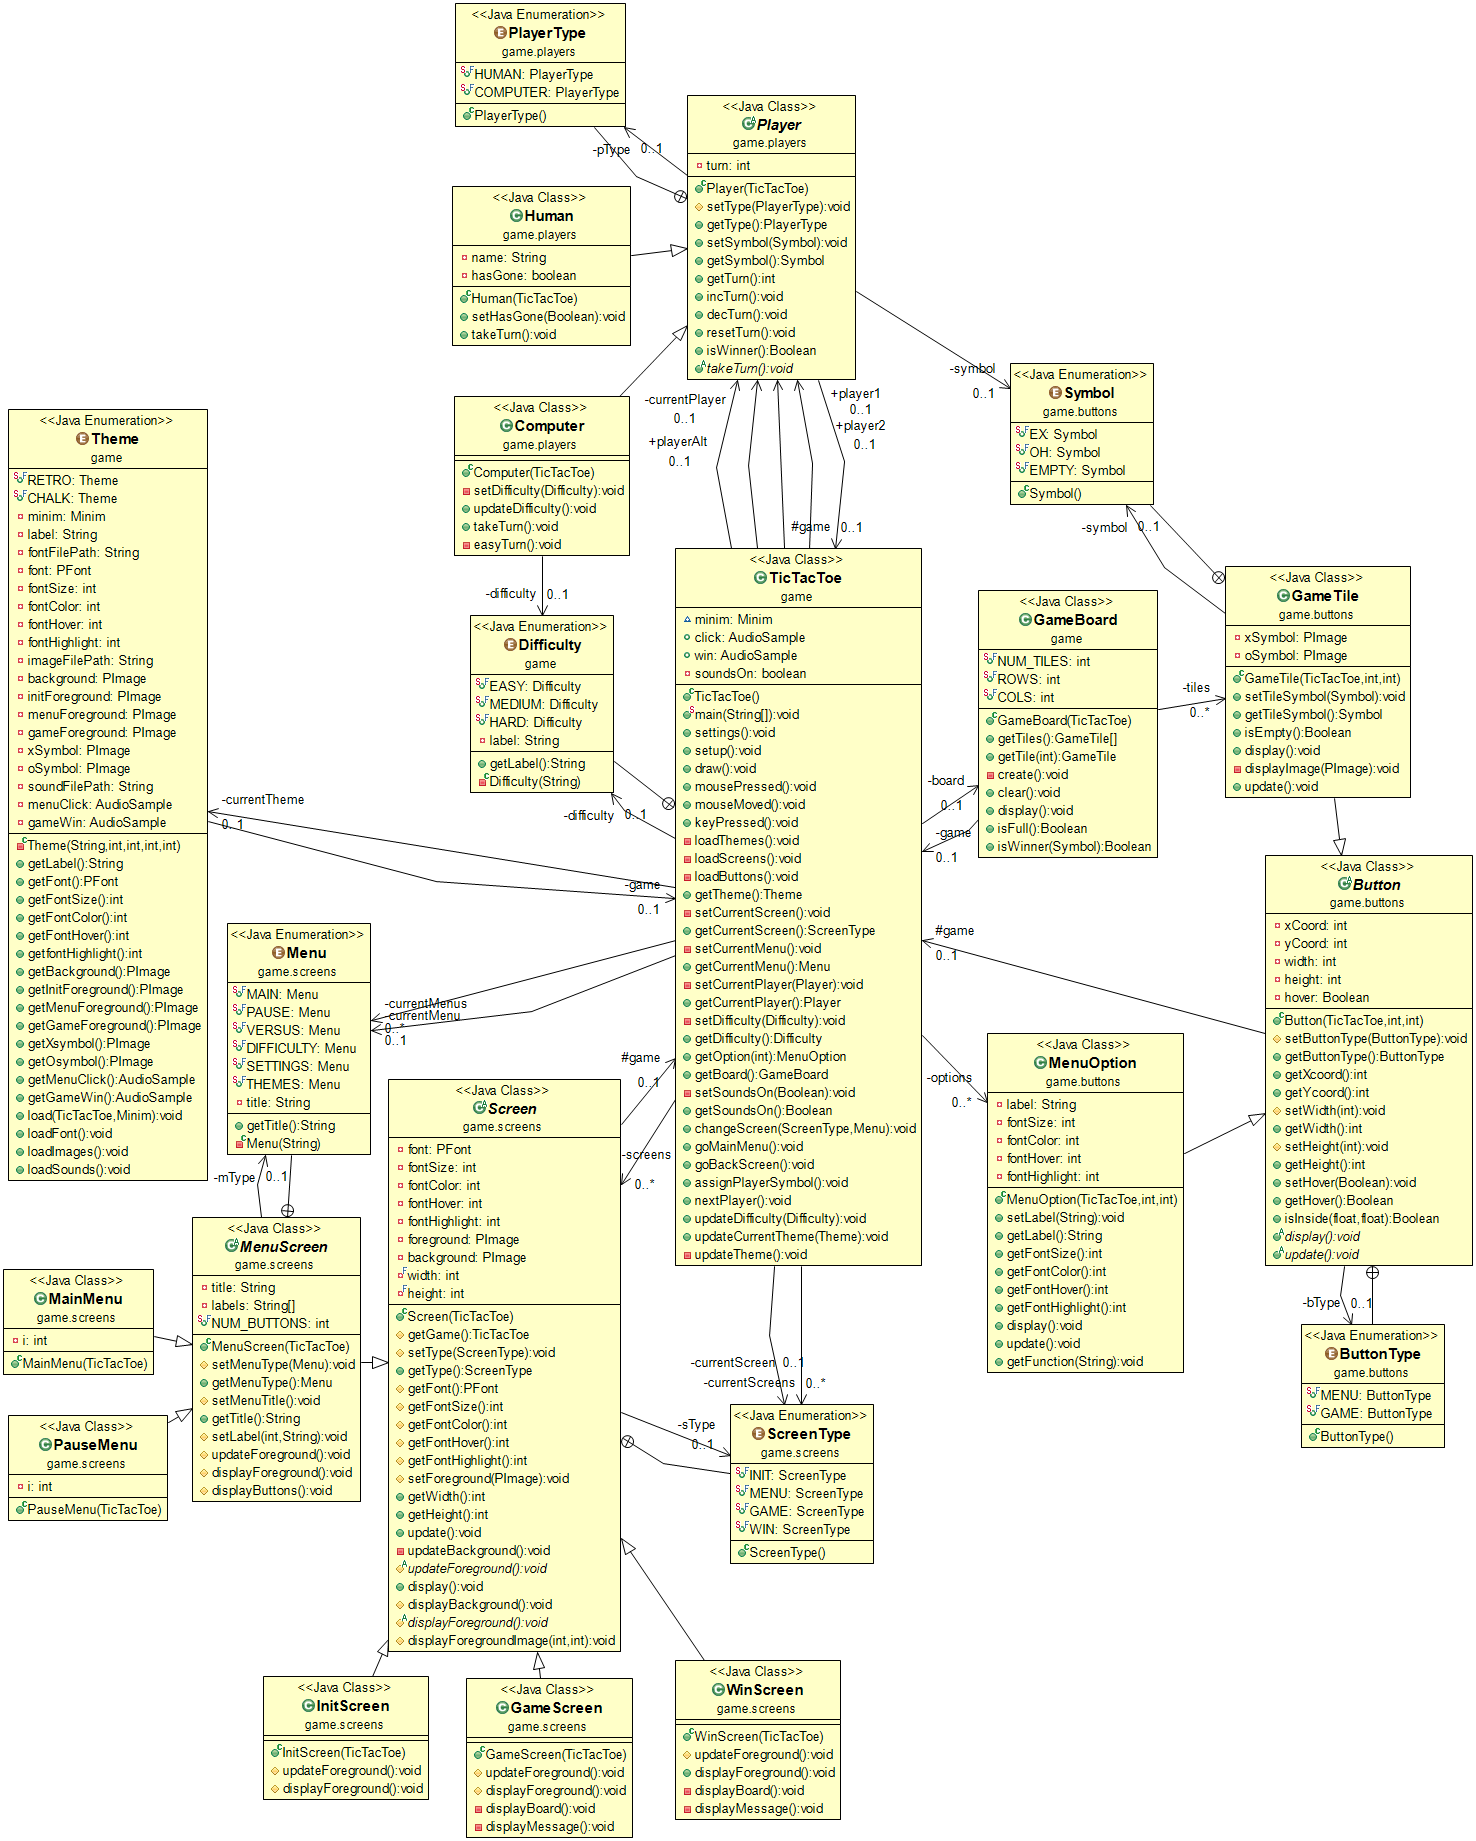
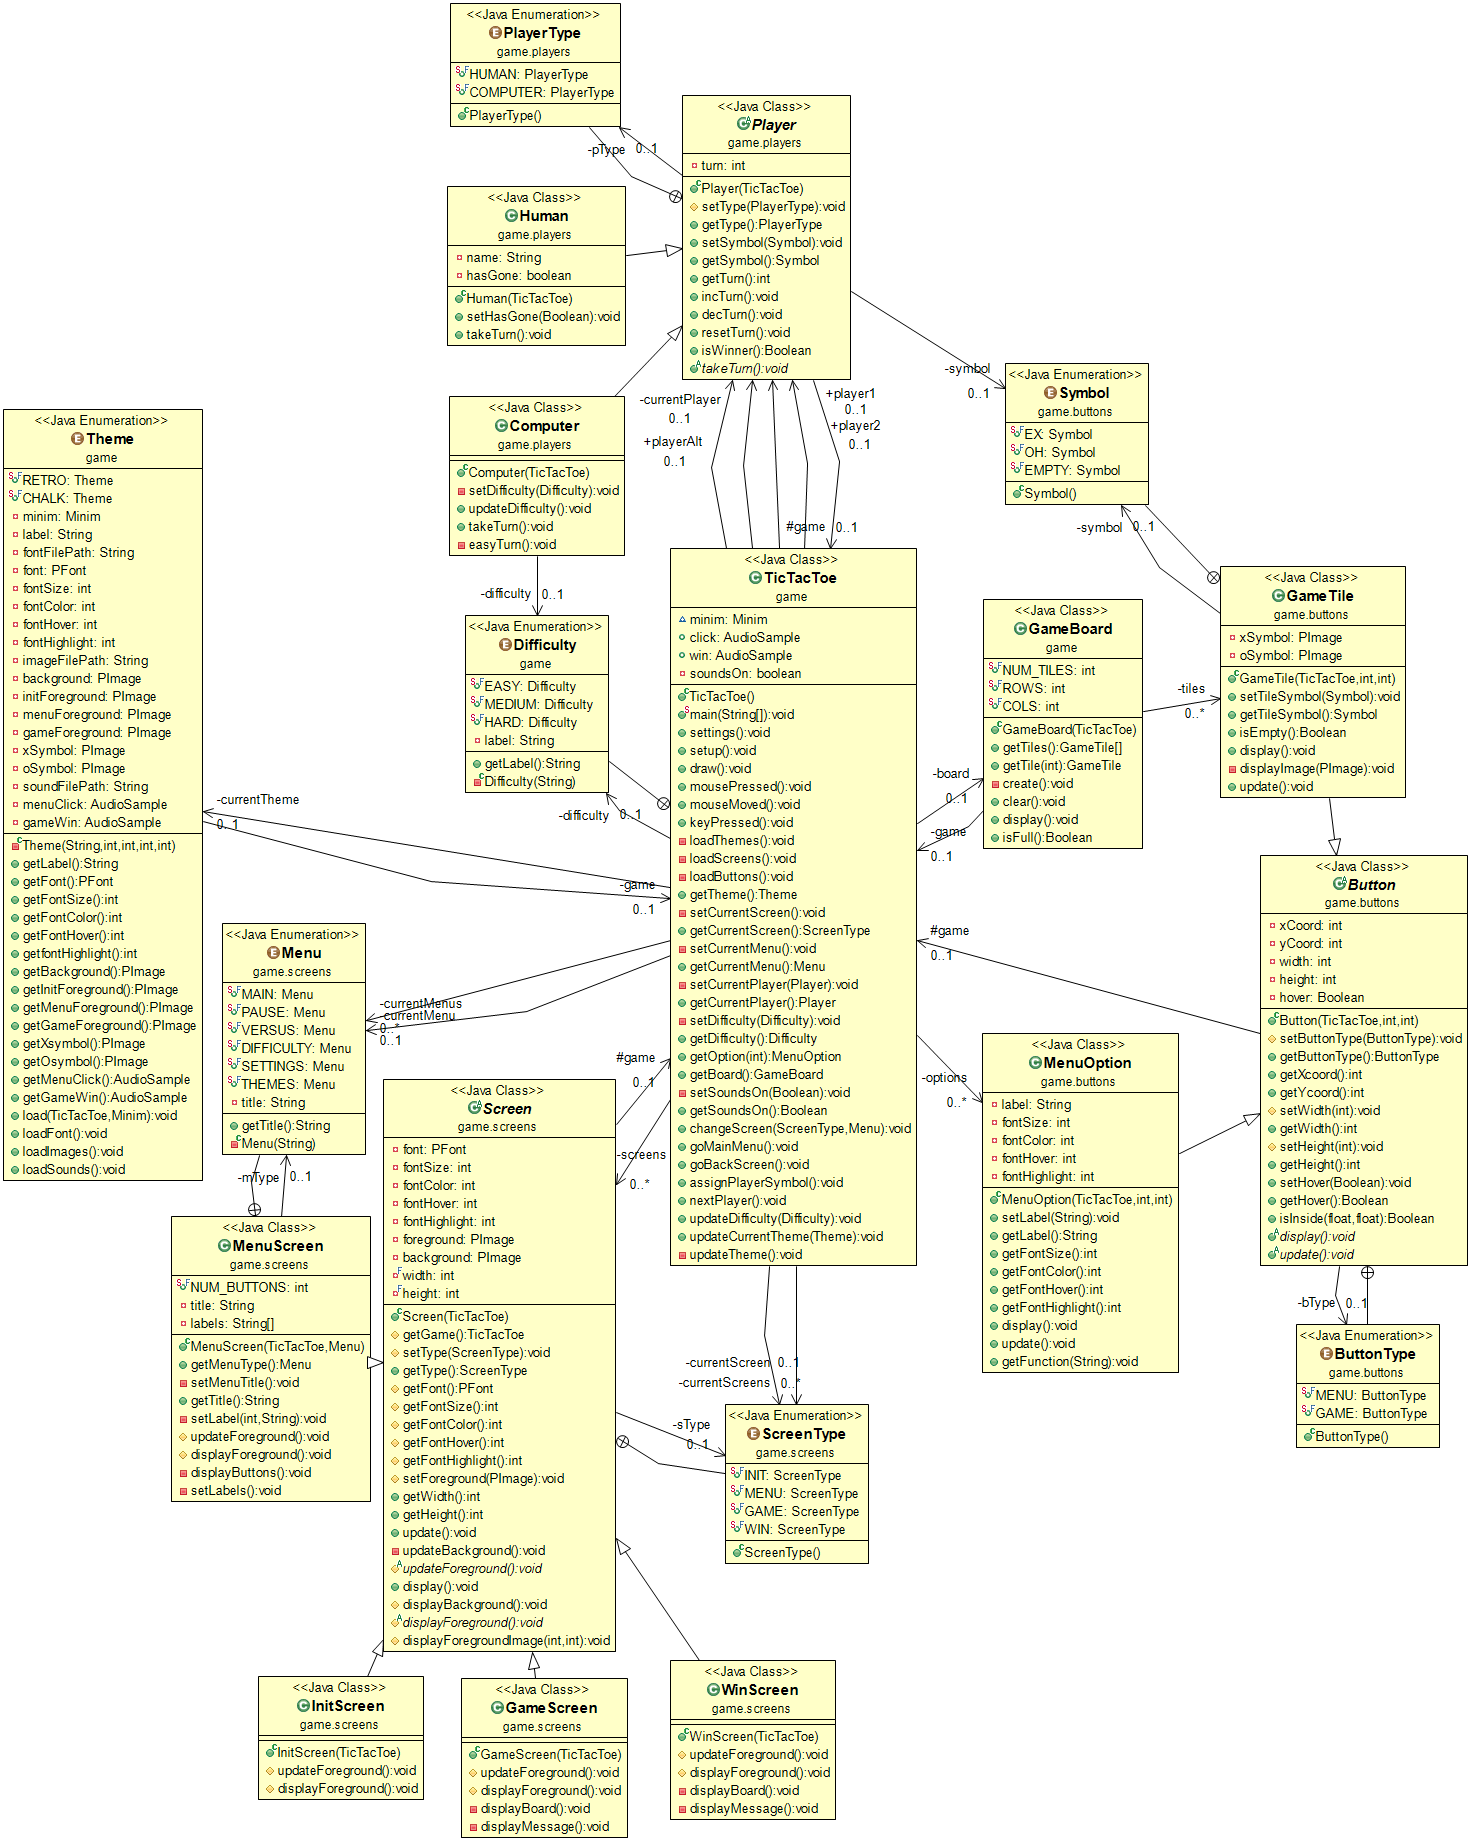
0.9.5_menus
-consolidated menu screens into single class
-removed separate menu classes

menu options are still created with the game and change display based on
current menu screen, as opposed to being created with the screen

diff --git a/TicTacToe/src/game/screens/MenuScreen.java b/TicTacToe/src/game/screens/MenuScreen.java
@@ -11,44 +11,48 @@
  ******************************************************************************/
 package game.screens;
 
+import game.Theme;
 import game.TicTacToe;
+import game.buttons.MenuOption;
 
-public abstract class MenuScreen extends Screen
+public class MenuScreen extends Screen
 {
     /***************************************************************************
      *      VARIABLES
      **************************************************************************/
     
+    public static final int NUM_BUTTONS = 6;
+
     private Menu mType;
     private String title;
     private String[] labels = {"","","","","",""};
-    public static final int NUM_BUTTONS = 6;
 
     /***************************************************************************
      *      CONSTRUCTOR
      **************************************************************************/
     
-    public MenuScreen(TicTacToe game)
+    public MenuScreen(TicTacToe game, Menu mType)
     {
         super(game);
+        this.mType = mType;
+
         setType(ScreenType.MENU);
         setForeground(game.getTheme().getMenuForeground());
+
+        setMenuTitle();
+        setLabels();
     }
     
     /***************************************************************************
      *      SETTERS/GETTERS
      **************************************************************************/
     
-    protected void setMenuType(Menu mType) {
-        this.mType = mType;
-    }
-    
     public Menu getMenuType()
     {
         return this.mType;
     }
     
-    protected void setMenuTitle()
+    private void setMenuTitle()
     {
         this.title = getMenuType().getTitle();
     }
@@ -58,7 +62,7 @@ public abstract class MenuScreen extends Screen
         return this.title;
     }
     
-    protected void setLabel(int i, String label)
+    private void setLabel(int i, String label)
     {
         this.labels[i] = label;
     }
@@ -82,13 +86,67 @@ public abstract class MenuScreen extends Screen
         
         displayButtons();
     }
+    
+    
 
-    protected void displayButtons()
+    private void displayButtons()
     {
         for (int i = 0; i < labels.length; i++)
         {
             game.getOption(i).setLabel(this.labels[i]);
             game.getOption(i).display();
+        }
+    }
+    
+    private void setLabels()
+    {
+        int i = 0;
+        switch (mType)
+        {
+        case MAIN:
+            setLabel(i++, "New Game");
+            setLabel(i++, "Difficulty");
+            //setLabel(i++, "Settings");
+            setLabel(i++, "Quit");            
+            break;
+            
+        case PAUSE:
+            setLabel(i++, "Continue Game");
+            setLabel(i++, "New Game");
+            //setLabel(i++, "Settings");
+            setLabel(i++, "Main Menu");
+            setLabel(i++, "Quit");
+            break;
+            
+        case VERSUS:
+            setLabel(i++, "Computer");
+            setLabel(i++, "Human");
+            setLabel(i++, "Back");
+            break;
+            
+        case DIFFICULTY:
+            setLabel(i++, "Easy");
+            setLabel(i++, "Medium");
+            setLabel(i++, "Hard");
+            setLabel(i++, "Back");
+            break;
+            
+        case SETTINGS:
+            setLabel(i++, "Themes");
+            //setLabel(i++, "Sounds");
+            setLabel(i++, "Back");
+            break;
+            
+        case THEMES:
+            for (Theme theme : Theme.values())
+            {
+                setLabel(i++, theme.getLabel());
+            }
+            setLabel(i++,"Back");
+            break;
+            
+        default:
+            break;
         }
     }
 

diff --git a/TicTacToe/src/game/GameBoard.java b/TicTacToe/src/game/GameBoard.java
@@ -95,47 +95,4 @@ public class GameBoard
         }
         return true;
     }
-  
-    public Boolean isWinner(Symbol s)
-    {
-    	//Boolean Variable
-    	boolean winner = false;
-    	//Check Row Winners
-    	if ((getTile(0).getTileSymbol() == s) && (getTile(1).getTileSymbol() == s) && (getTile(2).getTileSymbol() == s))
-		{
-			winner = true;
-		}
-    	else if ((getTile(3).getTileSymbol() == s) && (getTile(4).getTileSymbol() == s) && (getTile(5).getTileSymbol() == s))
-    	{
-			winner = true;
-    	}
-    	else if ((getTile(6).getTileSymbol() == s) && (getTile(7).getTileSymbol() == s) && (getTile(8).getTileSymbol() == s))
-    	{
-			winner = true;
-    	}
-    	//Check Column Winners
-    	else if ((getTile(0).getTileSymbol() == s) && (getTile(3).getTileSymbol() == s) && (getTile(6).getTileSymbol() == s))
-		{
-			winner = true;
-		}
-    	else if ((getTile(1).getTileSymbol() == s) && (getTile(4).getTileSymbol() == s) && (getTile(7).getTileSymbol() == s))
-    	{
-			winner = true;
-    	}
-    	else if ((getTile(2).getTileSymbol() == s) && (getTile(5).getTileSymbol() == s) && (getTile(8).getTileSymbol() == s))
-    	{
-			winner = true;
-    	}
-    	//Check Diagonal Winners
-    	else if ((getTile(0).getTileSymbol() == s) && (getTile(4).getTileSymbol() == s) && (getTile(8).getTileSymbol() == s))
-		{
-			winner = true;
-		}
-    	else if ((getTile(2).getTileSymbol() == s) && (getTile(4).getTileSymbol() == s) && (getTile(6).getTileSymbol() == s))
-    	{
-			winner = true;
-    	}
-    	
-        return winner;
-    }
 }

diff --git a/TicTacToe/src/game/TicTacToe.java b/TicTacToe/src/game/TicTacToe.java
@@ -24,17 +24,12 @@ import game.players.Computer;
 import game.players.Human;
 import game.players.Player;
 import game.players.Player.PlayerType;
-import game.screens.DifficultyMenu;
 import game.screens.GameScreen;
 import game.screens.InitScreen;
-import game.screens.MainMenu;
 import game.screens.MenuScreen;
 import game.screens.MenuScreen.Menu;
-import game.screens.PauseMenu;
 import game.screens.Screen;
 import game.screens.Screen.ScreenType;
-import game.screens.SettingsMenu;
-import game.screens.ThemesMenu;
 import game.screens.WinScreen;
 import processing.core.PApplet;
 import util.Reference;
@@ -282,12 +277,12 @@ public class TicTacToe extends PApplet
     private void loadScreens()
     {
         screens.put("Initial", new InitScreen(this));
-        screens.put("Main", new MainMenu(this));
+        screens.put("Main", new MenuScreen(this, Menu.MAIN));
         screens.put("Game", new GameScreen(this));
-        screens.put("Pause", new PauseMenu(this));
-        screens.put("Difficulty", new DifficultyMenu(this));
-        screens.put("Settings", new SettingsMenu(this));
-        screens.put("Themes", new ThemesMenu(this));
+        screens.put("Pause", new MenuScreen(this, Menu.PAUSE));
+        screens.put("Difficulty", new MenuScreen(this, Menu.DIFFICULTY));
+        screens.put("Settings", new MenuScreen(this, Menu.SETTINGS));
+        screens.put("Themes", new MenuScreen(this, Menu.THEMES));
         screens.put("Win", new WinScreen(this));
     }
     

diff --git a/TicTacToe/src/game/players/Human.java b/TicTacToe/src/game/players/Human.java
@@ -58,7 +58,10 @@ public class Human extends Player
         else
         {
             game.changeScreen(ScreenType.WIN,Menu.MAIN);
-            if (game.getSoundsOn()) { game.win.trigger(); }
+            if (game.getSoundsOn() && game.getCurrentPlayer().isWinner())
+            {
+                game.win.trigger(); 
+            }
         }
     }
 }

diff --git a/TicTacToe/src/game/screens/WinScreen.java b/TicTacToe/src/game/screens/WinScreen.java
@@ -60,7 +60,7 @@ public class WinScreen extends Screen
     } 
     
     @Override
-    public void displayForeground()
+    protected void displayForeground()
     {
         // Display foreground image with given dimensions
         displayForegroundImage(330, 330);
